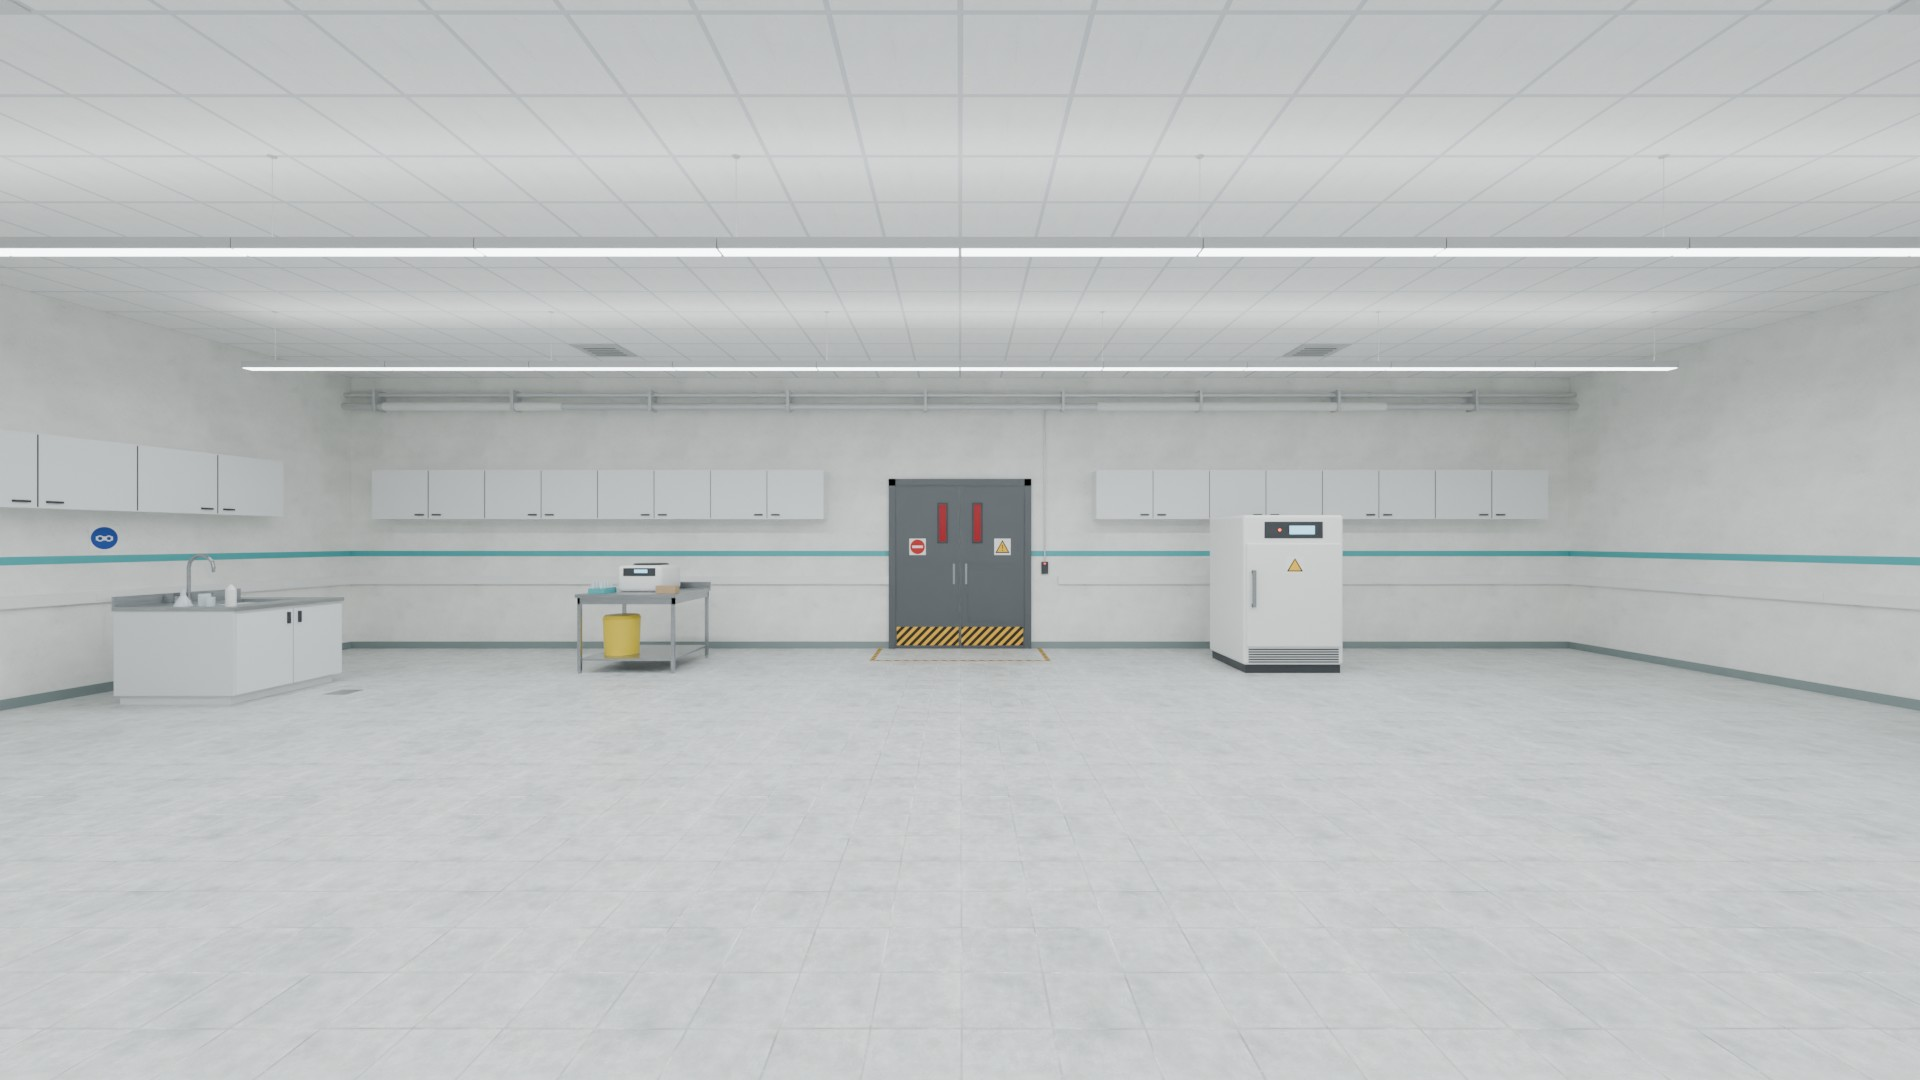
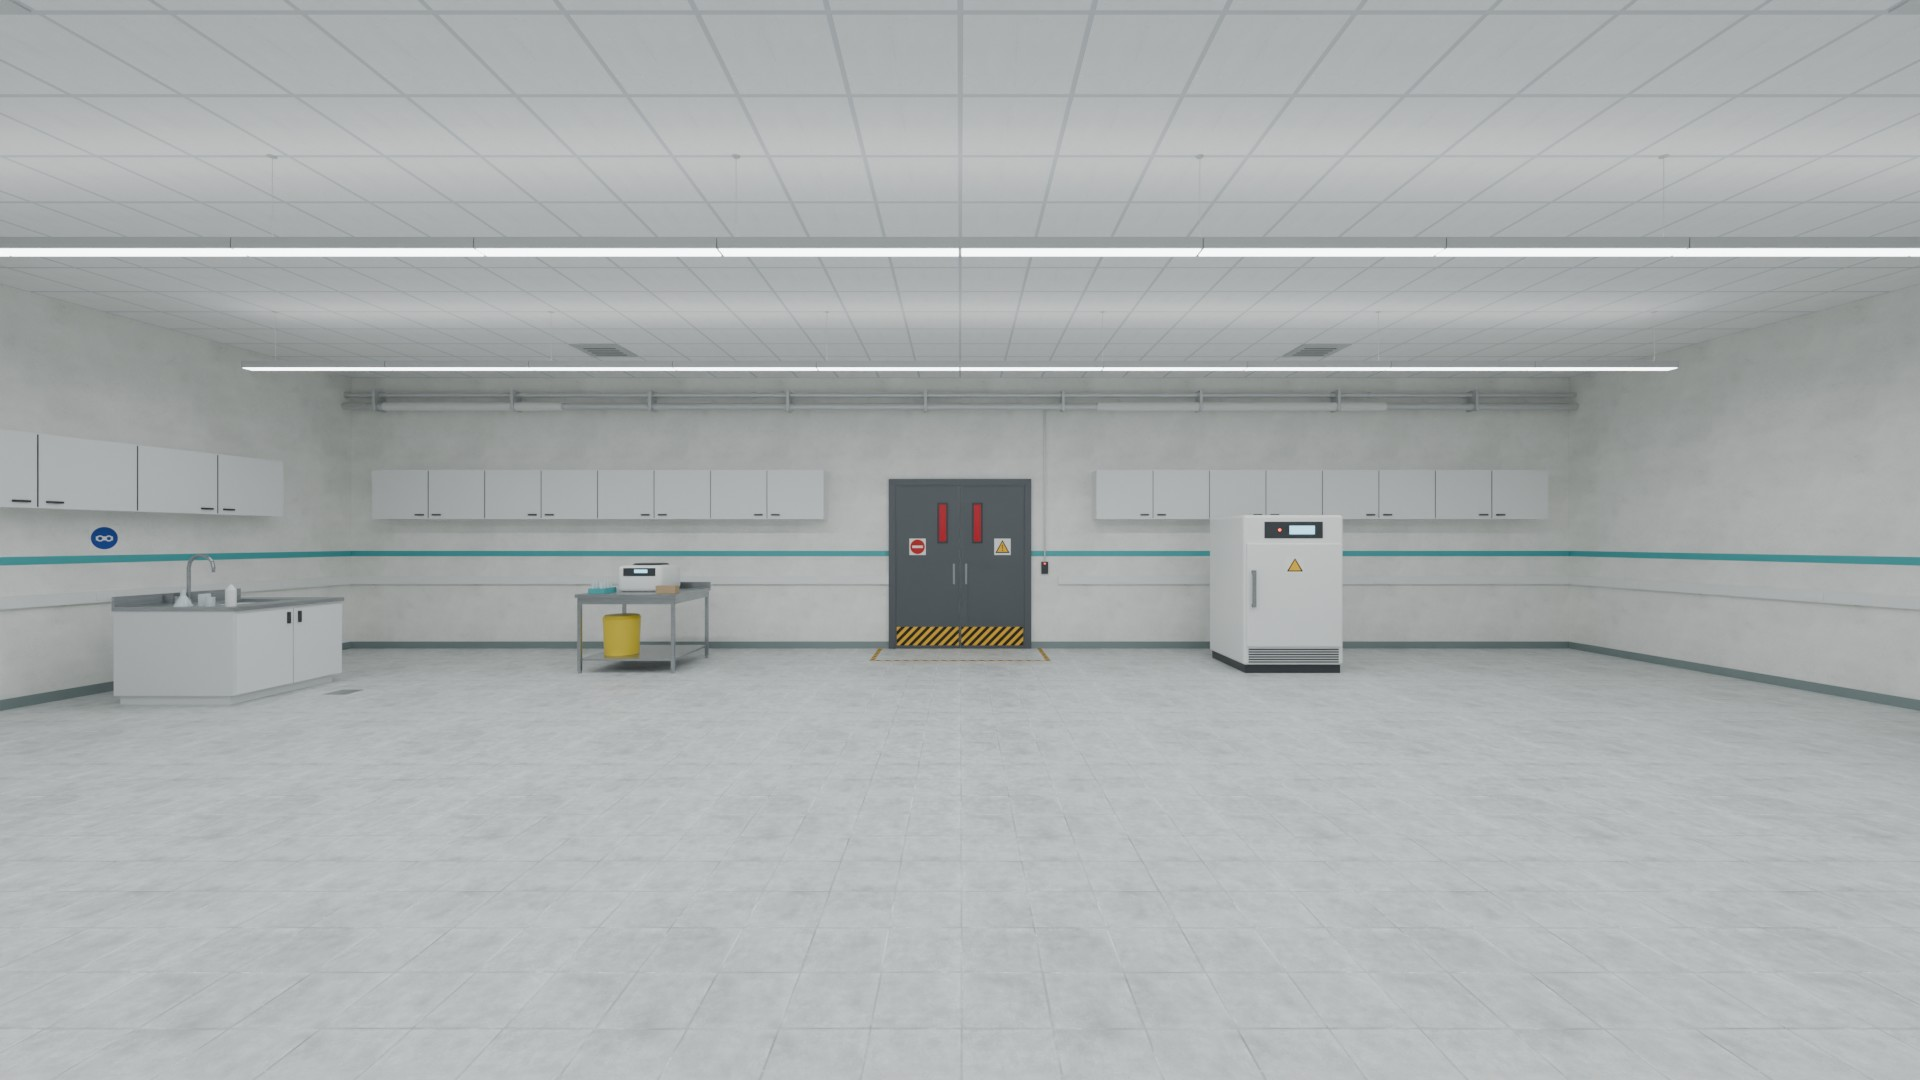
laboratory: re-render the review stills at the relit light levels
check_layout re-run on the relit .blend: PASS 15 of 15.

diff --git a/docs/renders/laboratory/README.md b/docs/renders/laboratory/README.md
@@ -69,7 +69,7 @@ What the page shows (area-weighted samples over each material's triangles, max c
 | `Plastic_White` (equipment) | 0.97 | 1.21 | 7.4 % | **0.57** | 0.70 | 0 |
 | `Trunking_PVC` | 0.76 | 0.85 | 0.01 % | **0.45** | 0.50 | 0 |
 
-No baked material reaches 1.0 now; only the unbaked emissive parts (`Lamp_Emit` at strength 8, the exit sign, the displays, the red LEDs) do, as they should. The three review stills above are from the first bake (Blender renders through AgX at the first lights) and were not re-rendered.
+No baked material reaches 1.0 now; only the unbaked emissive parts (`Lamp_Emit` at strength 8, the exit sign, the displays, the red LEDs) do, as they should. The three review stills above were re-rendered after the relight, at the new light levels (Cycles with OptiX on a rented GPU, 128 samples), and `check_layout.py` was run again on the relit `.blend`: PASS, 15 of 15.
 
 The three.js check (`glb_check`, run with node on the exported file):
 
